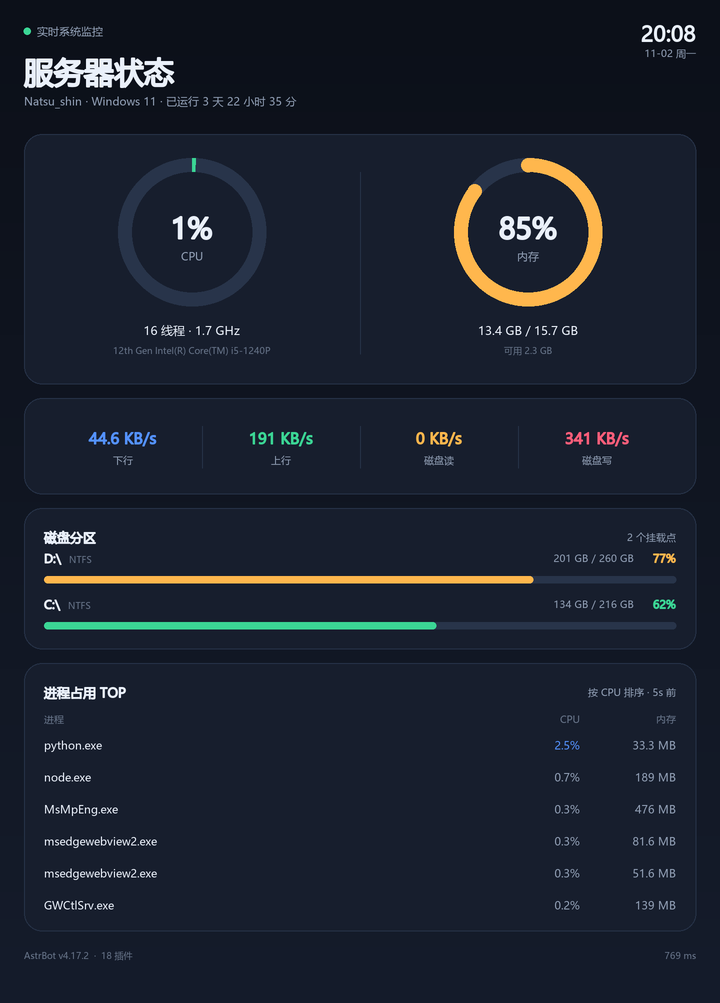
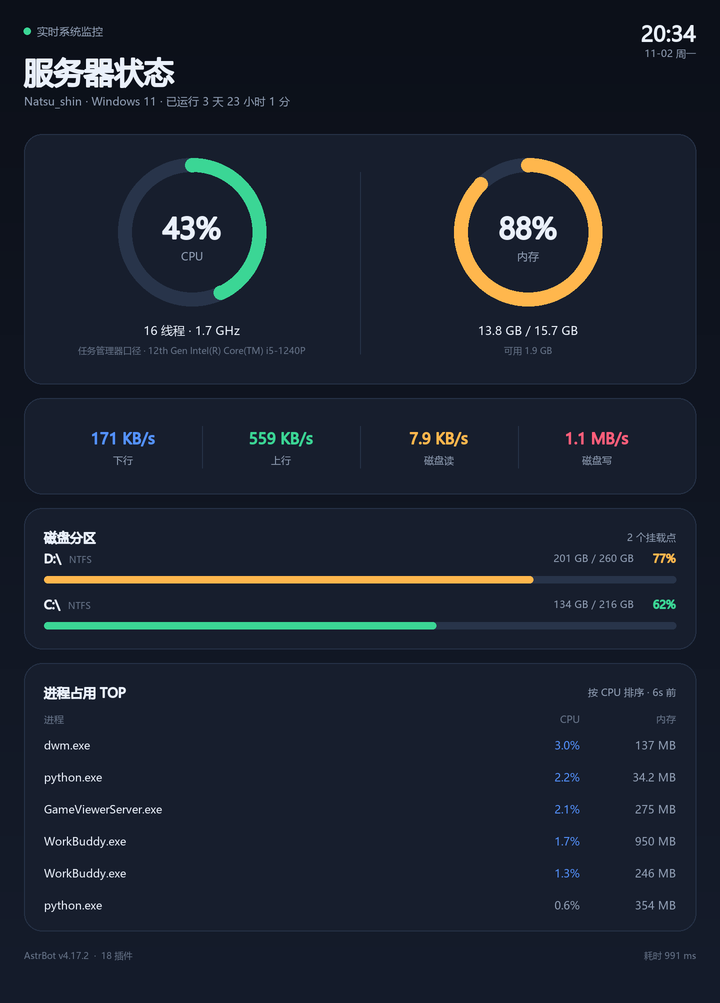
fix: CPU 占用改用任务管理器同口径 v1.1.1
Windows 8+ 任务管理器显示的 CPU 占用是 % Processor Utility（按频率折算），
不是时间占比。混合架构 CPU（如 i5-1240P 的 P+E 核）上两者实测差 5~7 倍
（同刻 4% vs 30%），用户对照任务管理器会误以为插件读数偏低。

- 默认通过 PDH 读取 % Processor Utility，与任务管理器数字对齐
- 复用查询已有的 0.5s 采样窗口，句柄用完即关，无后台线程、空闲零开销
- 新增 cpu_metric 配置项，可切回时间占比口径（非 Windows 自动回落）
- 卡片与文本报告标注当前口径，避免口径混淆

diff --git a/status_collector.py b/status_collector.py
@@ -216,6 +216,96 @@ def _usage_between(before, after) -> float:
     return max(min(busy_delta / total_delta * 100.0, 100.0), 0.0)
 
 
+# --------------------------------------------------------------------------- #
+# 两种 CPU 口径
+#
+# % Processor Time（本模块自己算的时间占比）= CPU 有多少时间不在跑 idle，
+# 与 top / htop / psutil / 宝塔面板一致。
+#
+# % Processor Utility（任务管理器从 Windows 8 起显示的「CPU」）= 时间占比再按
+# 当前频率折算。混合架构 CPU（如 i5-1240P 的 P 核 + E 核）上两者能差 5~7 倍，
+# 实测同一时刻 4% vs 30%。用户拿卡片和任务管理器对照就会觉得数字不对，
+# 所以这里把两种都提供，由 cpu_metric 配置项决定用哪个。
+# --------------------------------------------------------------------------- #
+
+_PDH_FMT_DOUBLE = 0x00000200
+_PDH_CSTATUS_OK = (0, 1)  # VALID_DATA / NEW_DATA
+_UTILITY_COUNTER_PATH = r"\Processor Information(_Total)\% Processor Utility"
+
+
+class _UtilityCounter:
+    """读取任务管理器同口径的 % Processor Utility（仅 Windows 有效）。"""
+
+    def __init__(self):
+        self._parts = self._open()
+        self._broken = self._parts is None
+
+    @staticmethod
+    def _open():
+        if os.name != "nt":
+            return None
+        try:
+            import ctypes
+            from ctypes import wintypes
+
+            class _Value(ctypes.Structure):
+                _fields_ = [
+                    ("CStatus", wintypes.DWORD),
+                    ("doubleValue", ctypes.c_double),
+                ]
+
+            pdh = ctypes.WinDLL("pdh.dll")
+            query = wintypes.HANDLE()
+            if pdh.PdhOpenQueryW(None, 0, ctypes.byref(query)) != 0:
+                return None
+            counter = wintypes.HANDLE()
+            rc = pdh.PdhAddEnglishCounterW(
+                query,
+                ctypes.c_wchar_p(_UTILITY_COUNTER_PATH),
+                0,
+                ctypes.byref(counter),
+            )
+            if rc != 0:
+                pdh.PdhCloseQuery(query)
+                return None
+            pdh.PdhCollectQueryData(query)  # 建立基线，这一次的值不可用
+            return pdh, query, counter, ctypes, _Value
+        except Exception:
+            return None
+
+    def poll(self):
+        """取一次读数（百分比）。首次调用、计数器失效或异常时返回 None。"""
+        if self._broken:
+            return None
+        pdh, query, counter, ctypes, value_cls = self._parts
+        try:
+            if pdh.PdhCollectQueryData(query) != 0:
+                return None
+            value = value_cls()
+            rc = pdh.PdhGetFormattedCounterValue(
+                counter, _PDH_FMT_DOUBLE, None, ctypes.byref(value)
+            )
+            if rc != 0 or int(value.CStatus) not in _PDH_CSTATUS_OK:
+                return None
+            return max(min(float(value.doubleValue), 100.0), 0.0)
+        except Exception:
+            self._broken = True
+            return None
+
+    def close(self) -> None:
+        """释放 PDH 查询句柄。每次查询都新建、用完即关，避免句柄泄漏。"""
+        if self._broken or not self._parts:
+            return
+        pdh, query = self._parts[0], self._parts[1]
+        try:
+            pdh.PdhCloseQuery(query)
+        except Exception:
+            pass
+        self._broken = True
+
+
+
+
 def _cpu_freq() -> dict:
     """当前频率与标称最高频率（单位 MHz）。
 
@@ -391,12 +481,20 @@ def _process_count() -> int:
     return len(pids)
 
 
-def collect(sample_interval: float = 0.5, with_processes: bool = False, top_n: int = 5) -> dict:
+def collect(
+    sample_interval: float = 0.5,
+    with_processes: bool = False,
+    top_n: int = 5,
+    cpu_metric: str = "time",
+) -> dict:
     """采集一次快照。
 
-    为了拿到"当前瞬时"的 CPU 与网络/磁盘速率，这里必须做两次采样取差值。
+    为了拿到"当前瞬时"的网络/磁盘速率，这里必须做两次采样取差值。
     sample_interval 是两次采样之间的间隔，0.5s 足够稳定，又不会让用户等太久。
     调用方应当用 asyncio.to_thread 包一层，避免阻塞事件循环。
+
+    CPU 占用只在这两次采样之间算，平时不占用任何 CPU（无后台线程）。
+    cpu_metric="utility" 时读 Windows 任务管理器同口径的 % Processor Utility。
 
     进程 TOP 列表不在本函数内采集（Windows 上遍历进程表很慢），
     请使用 collect_processes 配合后台定时缓存。
@@ -415,6 +513,9 @@ def collect(sample_interval: float = 0.5, with_processes: bool = False, top_n: i
     cpu0, cpu0_core = _cpu_snapshot()
     net0 = _net_counters()
     dio0 = _disk_io_counters()
+    # 任务管理器口径的计数器必须在窗口两端各采一次才能出值，
+    # 构造时已经建立了基线，这里只留引用，窗口结束后再 poll。
+    utility = _UtilityCounter() if str(cpu_metric).lower() == "utility" else None
     t0 = time.monotonic()
 
     if sample_interval > 0:
@@ -424,6 +525,9 @@ def collect(sample_interval: float = 0.5, with_processes: bool = False, top_n: i
     cpu1, cpu1_core = _cpu_snapshot()
     net1 = _net_counters()
     dio1 = _disk_io_counters()
+    utility_pct = utility.poll() if utility else None
+    if utility is not None:
+        utility.close()
     t1 = time.monotonic()
 
     elapsed = max(t1 - t0, 1e-6)
@@ -453,11 +557,17 @@ def collect(sample_interval: float = 0.5, with_processes: bool = False, top_n: i
     boot_time = static.get("boot_time")
     uptime = max(now - boot_time, 0) if boot_time else 0
 
-    cpu_percent = _usage_between(cpu0, cpu1)
+    # --- CPU：窗口内两次采样的差值，无后台线程 ---
+    time_pct = _usage_between(cpu0, cpu1)
     per_core = [
         _usage_between(before, after)
         for before, after in zip(cpu0_core, cpu1_core)
     ]
+    if utility_pct is not None:
+        percent, metric = utility_pct, "utility"
+    else:
+        percent, metric = time_pct, "time"
+
     freq = _cpu_freq()
 
     return {
@@ -467,10 +577,12 @@ def collect(sample_interval: float = 0.5, with_processes: bool = False, top_n: i
         "uptime": uptime,
         "load_avg": _load_avg(),
         "cpu": {
-            "percent": round(cpu_percent, 1),
+            "percent": round(float(percent or 0.0), 1),
+            "instant": round(float(time_pct), 1),
             "per_core": [round(v, 1) for v in per_core],
             "freq": freq["current"],
             "freq_max": freq["max"],
+            "metric": metric,
         },
         "memory": {
             "total": getattr(mem, "total", 0),
@@ -573,7 +685,8 @@ def build_text_report(data: dict) -> str:
         f"【{static['hostname']}】{static['os_name']}",
         f"处理器：{static['cpu_model']}",
         f"核心：{static['cpu_phys']} 物理 / {static['cpu_logical']} 逻辑",
-        f"CPU：{cpu['percent']:.1f}%{freq_text}",
+        f"CPU：{cpu['percent']:.1f}%{freq_text}"
+        + ("（任务管理器口径）" if cpu.get("metric") == "utility" else ""),
         f"内存：{fmt_bytes(mem['used'])} / {fmt_bytes(mem['total'])} ({mem['percent']:.1f}%)",
         f"运行时长：{fmt_uptime(data['uptime'])}",
         f"网络：↓ {fmt_rate(net['down_rate'])}  ↑ {fmt_rate(net['up_rate'])}",

diff --git a/status_renderer.py b/status_renderer.py
@@ -468,7 +468,14 @@ def render(data: dict, config: dict | None = None) -> Image.Image:
     cores = int(static.get("cpu_logical", 0) or 0)
     freq_text = _freq_text(cpu)
     cpu_detail = " · ".join(p for p in (f"{cores} 线程" if cores else "", freq_text) if p)
-    cpu_sub = _truncate(canvas, str(static.get("cpu_model", "-")), CONTENT_W / 2 - 30, 9.5)
+    # CPU 数字用的是哪种口径，直接在卡片上标出来，避免和任务管理器对不上时产生误会
+    metric_note = "任务管理器口径" if str(cpu.get("metric")) == "utility" else "时间占比"
+    cpu_sub = _truncate(
+        canvas,
+        f"{metric_note} · {static.get('cpu_model', '-')}",
+        CONTENT_W / 2 - 30,
+        9.5,
+    )
     mem_detail = f"{fmt_bytes(memory.get('used', 0))} / {fmt_bytes(memory.get('total', 0))}"
     mem_sub = f"可用 {fmt_bytes(memory.get('available', 0))}"
 

diff --git a/main.py b/main.py
@@ -121,9 +121,14 @@ class ServerStatusPlugin(Star):
 
         # --- 采集 ---
         sample_interval = float(self.config.get("sample_interval", 0.5) or 0.5)
+        cpu_metric = str(self.config.get("cpu_metric", "utility") or "utility")
         try:
             data = await asyncio.to_thread(
-                collector.collect, sample_interval, False, 0
+                collector.collect,
+                sample_interval,
+                False,
+                0,
+                cpu_metric,
             )
         except Exception as exc:
             logger.error(f"[server_status] 采集失败: {exc}")

diff --git a/README.md b/README.md
@@ -70,6 +70,7 @@ sudo yum install wqy-microhei-fonts
 | `send_mode` | `base64` | 图片以 base64 还是本地文件方式发送 |
 | `admin_only` | `false` | 是否仅管理员可用 |
 | `cooldown_seconds` | `5` | 同一会话的查询冷却时间 |
+| `cpu_metric` | `utility` | CPU 占用统计方式：`utility`（任务管理器口径，推荐）或 `time`（时间占比） |
 | `sample_interval` | `0.5` | 系统采样间隔（秒），用于计算瞬时速率 |
 | `show_disk_partitions` / `max_disk_partitions` | `true` / `4` | 磁盘分区列表 |
 | `show_processes` / `process_top_n` | `true` / `5` | 进程占用 TOP |
@@ -83,6 +84,10 @@ sudo yum install wqy-microhei-fonts
 
 - **速率类指标（CPU / 网络 / 磁盘 IO）实时计算**：每次查询做一次 0.5s 的双采样取差值，
   保证数值是"现在"的瞬时值，而不是开机以来的平均值。
+- **CPU 占用默认用任务管理器同款口径（% Processor Utility）**：Windows 8+ 的任务管理器显示的不是
+  时间占比，而是按频率折算的 Utility；混合架构 CPU（P 核 + E 核）上两者能差 5~7 倍（实测同机 4% vs 30%）。
+  默认 `utility` 与任务管理器对齐；想看与 top / htop / 宝塔一致的时间占比可改回 `time`。
+- **CPU 读取不占性能**：无任何后台线程，只在查询的那 0.5 秒内采样，平时完全空闲。
 - **CPU 占用用 `cpu_times()` 自算差值**：`psutil.cpu_percent(interval=None)` 依赖进程内的全局时间戳缓存，
   只要别的插件或 AstrBot 面板在采样窗口内也调用一次，基准点就会被重置，导致稳定读出 0%。
   这里改用无状态的 `cpu_times()` 计算忙碌时间占比，不受其他代码干扰。
@@ -106,6 +111,7 @@ sudo yum install wqy-microhei-fonts
 
 ## 更新日志
 
+- `v1.1.1` CPU 占用改用任务管理器同口径（% Processor Utility，可配置），修复与任务管理器数字对不上的问题；采样零后台开销。
 - `v1.1.0` 改为竖屏手机版式；修复 CPU 占用偶发显示 0% 的采样问题；频率改为「当前 / 最高」显示；
   移除交换分区与系统概况区块。
 - `v1.0.0` 首个版本：环形仪表状态卡片、中文指令别名、深浅主题、进程 TOP 缓存、文本回落。
